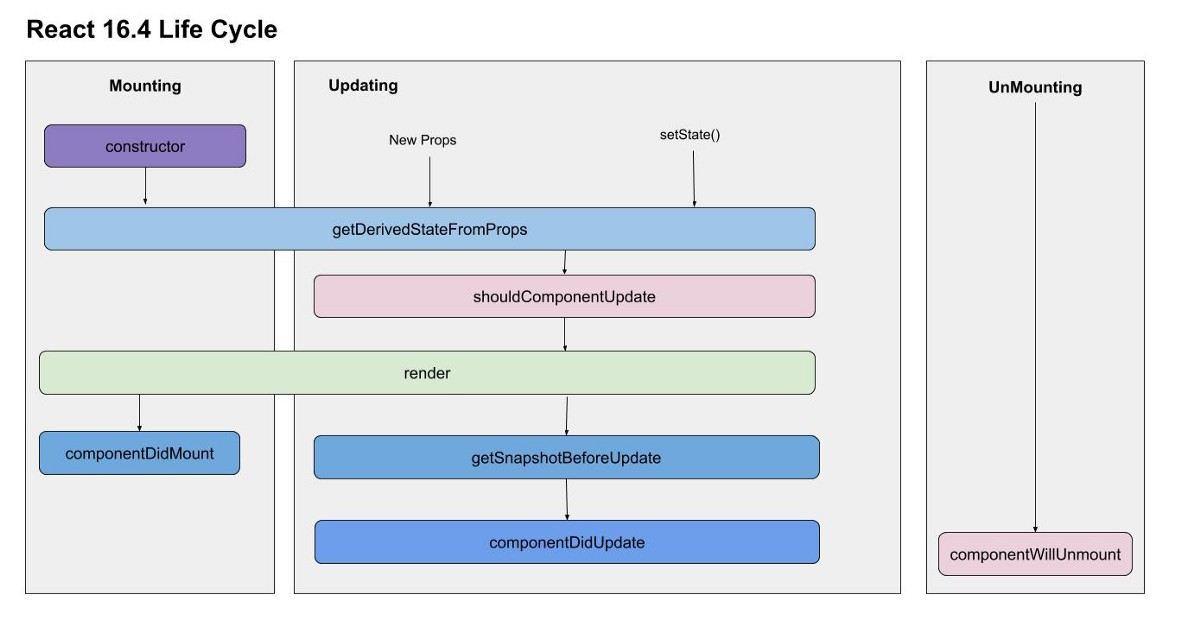
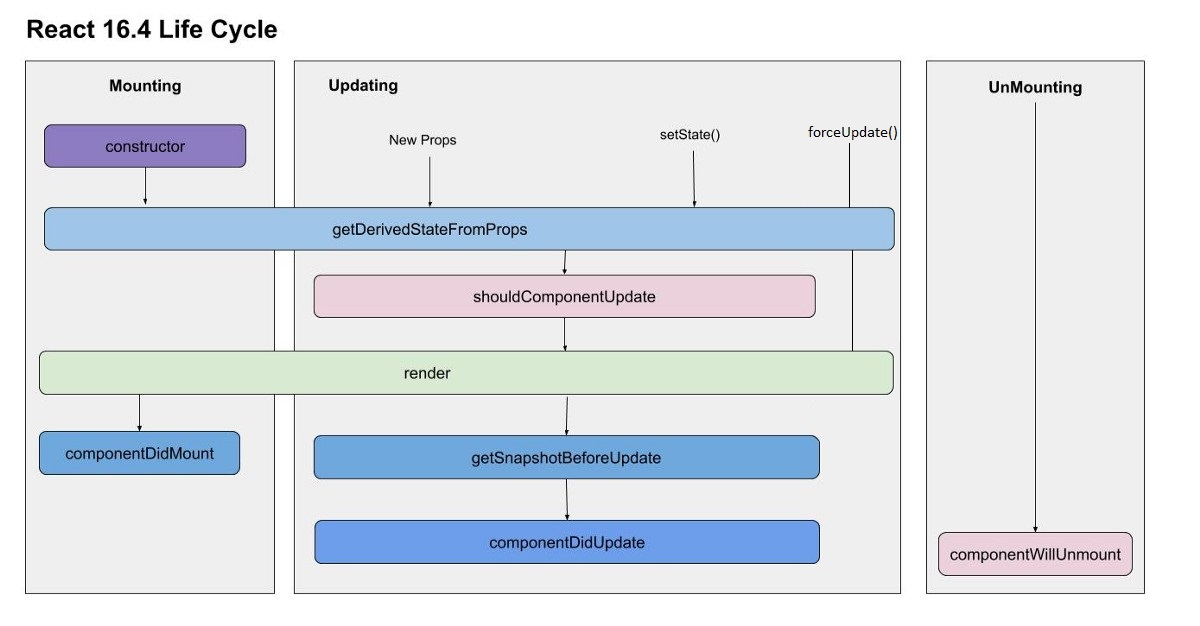
Component Life Cycle

Changed region(s): [[0.6783, 0.3035, 0.7708, 0.4249], [0.6783, 0.5463, 0.7708, 0.6374], [0.6783, 0.1821, 0.74, 0.2428]]

diff --git a/README.md b/README.md
@@ -645,12 +645,17 @@ export default House;
 5. componentDidMount() //Called immediately after first render once.
 
 ## Lifecycle Methods Updating
-1. componentWillReceiveProps(nextProps) - Only if updated externally
-2. shouldComponentUpdate(nextProps, nextState)
-3. componentWillUpdate(nextProps, nextState)
+* Component shouldComponentUpdate return true. By default update occurs if props or state is set regardless if they have changed.
+* PureComponent shouldComponentUpdate will compare props and state value before rendering.
+
+1. componentWillReceiveProps(nextProps) - Only if updated externally - Deprecated
+1. static getDerivedStateFromProps(props, state) - return new state based on props or null for no update
+2. shouldComponentUpdate(nextProps, nextState) - performance optimization - By default returns true
+3. componentWillUpdate(nextProps, nextState) - Deprecated
 4. render()
-5. updateChildComponentProps
-6. componentDidUpdate()
+5. getSnapshotBeforeUpdate(prevProps, prevState) - return snapshot object or null. Any value returned by this lifecycle will be passed as a parameter to componentDidUpdate().
+6. updateChildComponentProps
+7. componentDidUpdate(prevProps, prevState, snapshot)
 
 ## Lifecycle Methods Unmount
 ```
